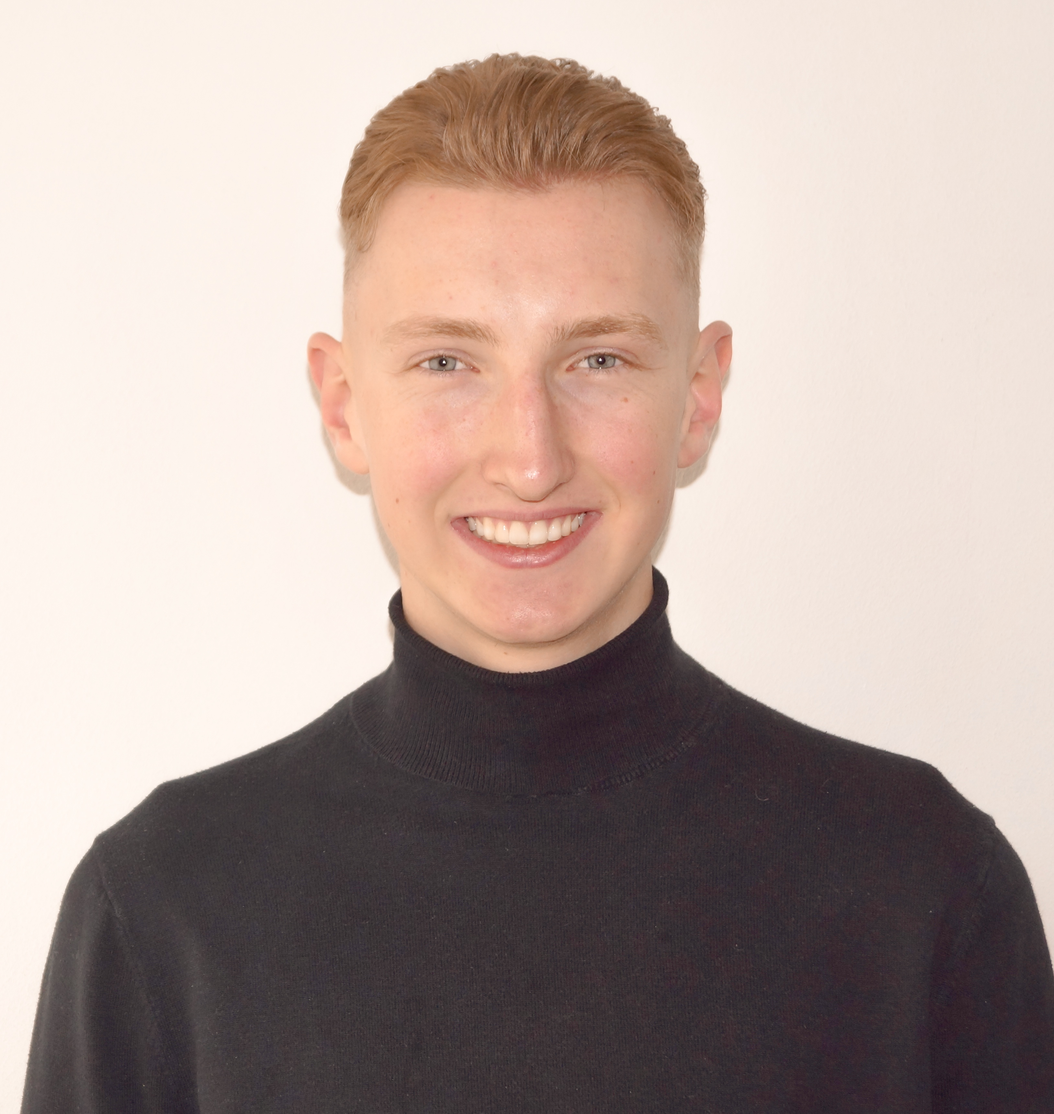
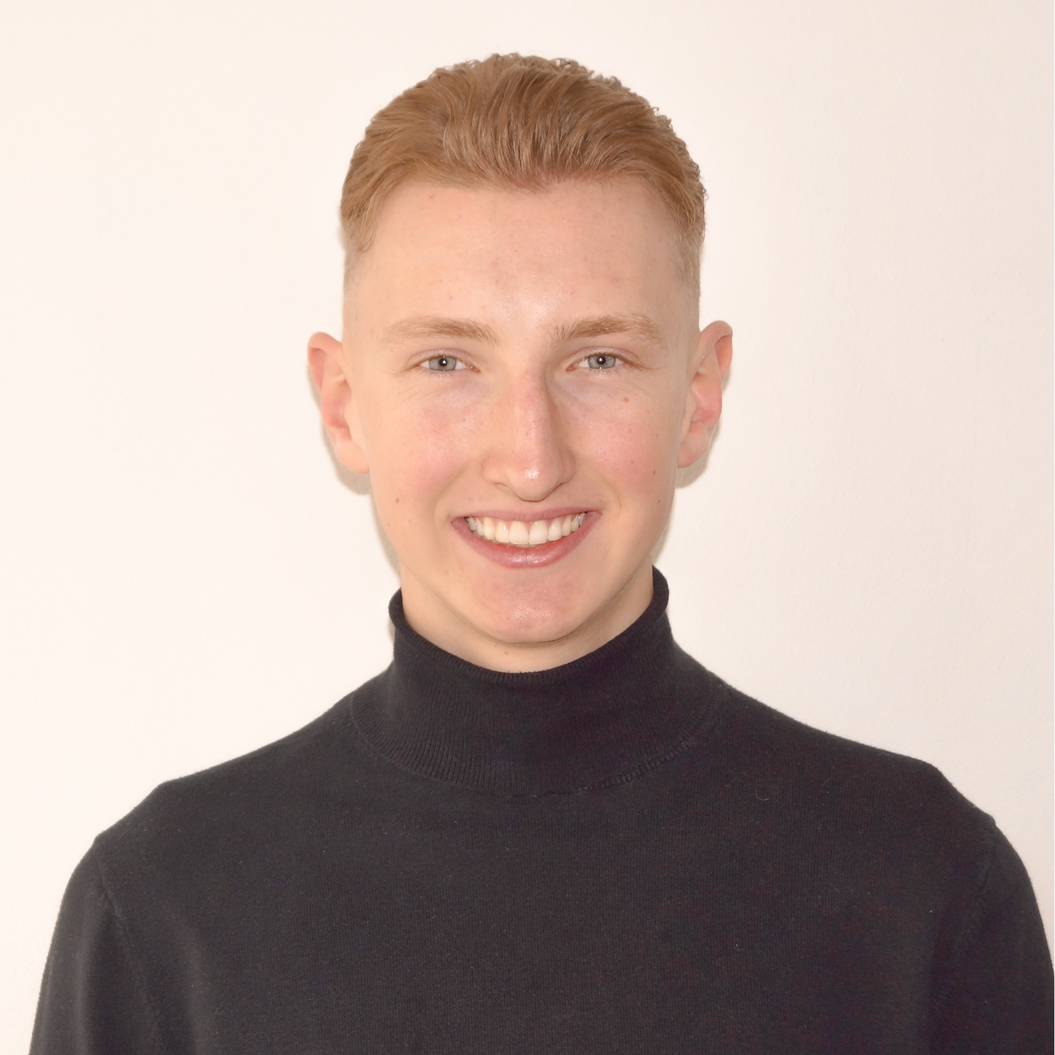
several fixes + begin footer
WP bug fix
Mitchell foto height fix
Form style (potential) fix
Added footer starter

diff --git a/css/themeStyle.css b/css/themeStyle.css
@@ -581,7 +581,7 @@ html {
   margin-bottom: 30px !important;
 }
 
-.wpforms-field-container > div > label, #wpforms-form-8 > .wpforms-field-container > div > label > .wpforms-required-label {
+.wpforms-field-container > div > label, #wpforms-form-19 > .wpforms-field-container > div > label > .wpforms-required-label {
   color: white;
 }
 
@@ -589,7 +589,7 @@ html {
   margin-bottom: 10px;
 }
 
-#wpforms-form-8 > div > div > input[type=text] {
+#wpforms-form-19 > div > div > input[type=text] {
   background-color: #6C63FF;
   color: white;
   border: none;
@@ -597,7 +597,7 @@ html {
   padding: 0;
 }
 
-#wpforms-form-8 > div > div > input[type=email] {
+#wpforms-form-19 > div > div > input[type=email] {
   background-color: #6C63FF;
   color: white;
   border: none;
@@ -610,20 +610,20 @@ input[type=text]::placeholder, input[type=email]::placeholder {
   margin-left: -10px !important;
 }
 
-#wpforms-8-field_5-container {
+#wpforms-19-field_5-container {
   color: white;
 }
 
-#wpforms-8-field_5_1 {
+#wpforms-19-field_5_1 {
   position: absolute;
   opacity: 0;
 }
-#wpforms-8-field_5_1 + label {
+#wpforms-19-field_5_1 + label {
   position: relative;
   cursor: pointer;
   padding: 0;
 }
-#wpforms-8-field_5_1 + label:before {
+#wpforms-19-field_5_1 + label:before {
   content: "";
   margin-right: 10px;
   display: inline-block;
@@ -633,16 +633,16 @@ input[type=text]::placeholder, input[type=email]::placeholder {
   background: #6C63FF;
   border: 3.5px solid white;
 }
-#wpforms-8-field_5_1:hover + label:before {
+#wpforms-19-field_5_1:hover + label:before {
   background: white;
 }
-#wpforms-8-field_5_1:focus + label:before {
+#wpforms-19-field_5_1:focus + label:before {
   box-shadow: 0 0 0 3px rgba(0, 0, 0, 0.171);
 }
-#wpforms-8-field_5_1:checked + label:before {
+#wpforms-19-field_5_1:checked + label:before {
   background: white;
 }
-#wpforms-8-field_5_1:checked + label:after {
+#wpforms-19-field_5_1:checked + label:after {
   content: "";
   position: absolute;
   left: 5px;
@@ -691,7 +691,7 @@ input[type=text]::placeholder, input[type=email]::placeholder {
     font-size: 40px;
   }
 
-  #wpforms-8-field_5_1 + label {
+  #wpforms-19-field_5_1 + label {
     font-size: 15px;
   }
 }
@@ -705,7 +705,7 @@ input[type=text]::placeholder, input[type=email]::placeholder {
     margin-bottom: 10px;
   }
 
-  #wpforms-8-field_5-container {
+  #wpforms-19-field_5-container {
     margin-bottom: 10px !important;
   }
 }
@@ -722,6 +722,19 @@ input[type=text]::placeholder, input[type=email]::placeholder {
   .wpforms-field-container > div {
     margin-bottom: 10px !important;
   }
+}
+.footer-section {
+  background-color: #4842AB;
+}
+
+.footer-container {
+  width: 80%;
+}
+
+.footer-bedrijf-info {
+  display: grid;
+  grid-template-columns: auto 1fr;
+  grid-template-rows: auto 1fr;
 }
 
 /*# sourceMappingURL=themeStyle.css.map */

diff --git a/sass/_contact.scss b/sass/_contact.scss
@@ -28,20 +28,20 @@
 .wpforms-field-container > div {
     margin-bottom: 30px !important;
 }
-.wpforms-field-container > div > label, #wpforms-form-8 > .wpforms-field-container > div > label > .wpforms-required-label  {
+.wpforms-field-container > div > label, #wpforms-form-19 > .wpforms-field-container > div > label > .wpforms-required-label  {
     color: white ;
 }
 .wpforms-field-container > div > label {
     margin-bottom: 10px;
 }
-#wpforms-form-8 > div > div > input[type=text] {
+#wpforms-form-19 > div > div > input[type=text] {
     background-color: #6C63FF;
     color: white;
     border: none;
     border-bottom: 2px solid white;
     padding: 0;
 }
-#wpforms-form-8 > div > div > input[type=email] {
+#wpforms-form-19 > div > div > input[type=email] {
     background-color: #6C63FF;
     color: white;
     border: none;
@@ -52,11 +52,11 @@ input[type=text]::placeholder, input[type=email]::placeholder {
     color: rgb(201, 201, 201);
     margin-left: -10px !important;
 }
-#wpforms-8-field_5-container {
+#wpforms-19-field_5-container {
     color: white;
 }
 
-#wpforms-8-field_5_1 {
+#wpforms-19-field_5_1 {
     position: absolute; // take it out of document flow
     opacity: 0; // hide it
   
@@ -146,7 +146,7 @@ input[type=text]::placeholder, input[type=email]::placeholder {
     .contact-page-right-container > h2 {
       font-size: 40px;
     }
-    #wpforms-8-field_5_1 + label {
+    #wpforms-19-field_5_1 + label {
       font-size: 15px;
     }
   }
@@ -159,7 +159,7 @@ input[type=text]::placeholder, input[type=email]::placeholder {
     .contact-page-right-container > h2 {
       margin-bottom: 10px;
     }
-    #wpforms-8-field_5-container  {
+    #wpforms-19-field_5-container  {
       margin-bottom: 10px !important;
     }
   }

diff --git a/sass/_footer.scss b/sass/_footer.scss
@@ -1,0 +1,11 @@
+.footer-section {
+  background-color: #4842AB;
+}
+.footer-container {
+  width: 80%;
+}
+.footer-bedrijf-info {
+  display: grid;
+  grid-template-columns: auto 1fr;
+  grid-template-rows: auto 1fr;
+}

diff --git a/sass/main.scss b/sass/main.scss
@@ -28,3 +28,4 @@ html {
 @import 'paketten';
 @import 'team';
 @import 'contact';
+@import 'footer';

diff --git a/index.php b/index.php
@@ -84,7 +84,7 @@
 
         <div class="prenium">
           <img class="pakketIcon preniumIcon" src="<?php echo get_template_directory_uri() . '/img/preniumIcon.png' ?>" alt="Prenium plan - Power Marketing">
-          <h2>PRENIUM</h2>
+          <h2>PREMIUM</h2>
           <h3>€10.000</h3>
           <div class="pakketItems">
             <p>Logo Design</p>
@@ -151,51 +151,80 @@
               </a>
             </div>
           </div>
-        <div class="team-grid-item">
-          <div class="team-kaartje">
-            <img src="<?php echo get_template_directory_uri() . '/img/mitchel.jpg' ?>" alt="Een foto van designer Larissa van Rijn.">
-            <h3 class="team-naam">Mitchel Westerwaal</h3>
-            <p class="team-functie">Graphic Designer</p>
-            <a href="#" class="team-link">
+          <div class="team-grid-item">
+            <div class="team-kaartje">
+              <img src="<?php echo get_template_directory_uri() . '/img/mitchel.jpg' ?>" alt="Een foto van designer Larissa van Rijn.">
+              <h3 class="team-naam">Mitchel Westerwaal</h3>
+              <p class="team-functie">Graphic Designer</p>
+              <a href="#" class="team-link">
 
-              <img src="<?php echo get_template_directory_uri() . '/img/arrow.png' ?>" alt="">
-              <p>Naar Portfolio</p>
-            </a>
-            </a>
+                <img src="<?php echo get_template_directory_uri() . '/img/arrow.png' ?>" alt="">
+                <p>Naar Portfolio</p>
+              </a>
+              </a>
+            </div>
           </div>
+
         </div>
 
+      </div>
+    </div>
+  </div>
+
+  <div class="section contact-section" id="section4">
+    <div class="contact-page-left">
+      <div></div>
+
+      <div class="contact-logo">
+        <img src="<?php echo get_template_directory_uri() . '/img/logo.svg' ?>" alt="Big purple letter P with a lightning bolt in it.">
+      </div>
+
+      <div></div>
+    </div>
+    <div class="contact-page-right">
+      <div></div>
+      <div class="contact-page-right-container">
+        <h2>NEEM CONTACT OP</h2>
+        <?php echo do_shortcode('[wpforms id="8" title="false" description="false"]') ?>
+      </div>
+      <div></div>
+    </div>
+  </div>
+
+  <div class="section fp-auto-height footer-section">
+    <div class="footer-container container">
+      <div class="row">
+        <div class="footer-bedrijf-info col">
+          <img src="<?php echo get_template_directory_uri() . '/img/logoWhite.svg' ?>" alt="Power-Marketing Logo">
+          <h3>Power Marketing</h3>
+          <p>Lorem ipsum dolor sit amet, consectetur
+adipiscing elit. Cras maximus metus vel 
+congue viverra.</p>
+        </div>
+        <div class="footer-contact col "><?php dynamic_sidebar('footer-contact'); ?></div>
+        <div class="footer-verkennen col"><?php
+                                    wp_nav_menu(array(
+                                      'theme_location'    => 'footer-menu',
+                                      'depth'             => 2,
+                                      'container'         => 'div',
+                                      'container_class'   => 'collapse navbar-collapse',
+                                      'container_id'      => 'footerNav',
+                                      'menu_class'        => 'footer-nav',
+                                      'fallback_cb'       => 'WP_Bootstrap_Navwalker::fallback',
+                                      'walker'            => new WP_Bootstrap_Navwalker(),
+                                    ));
+                                    ?></div>
+      </div>
+      <hr>
+      <div class="row">
+        <div class="footer-copyright col">Copyright</div>
+        <div class="footer-socials col">Social Icons</div>
       </div>
 
     </div>
   </div>
-</div>
-
-<div class="section contact-section" id="section4">
-  <div class="contact-page-left">
-    <div></div>
-
-    <div class="contact-logo">
-      <img src="<?php echo get_template_directory_uri() . '/img/logo.svg' ?>" alt="Big purple letter P with a lightning bolt in it.">
-    </div>
-
-    <div></div>
-  </div>
-  <div class="contact-page-right">
-    <div></div>
-    <div class="contact-page-right-container">
-      <h2>NEEM CONTACT OP</h2>
-      <?php echo do_shortcode('[wpforms id="8" title="false" description="false"]') ?>
-    </div>
-    <div></div>
-  </div>
-</div>
-
-<div class="section fp-auto-height footer-section">
-  FOOTER HIER
-</div>
 
 
 
 
-<?php get_footer() ?>
+  <?php get_footer() ?>

diff --git a/functions.php b/functions.php
@@ -9,13 +9,23 @@ function theme_prefix_setup() {
 
 }
 add_action( 'after_setup_theme', 'theme_prefix_setup' );
+/**
+ * (Original function) Load Stylesheets and Scripts in
+ * Made WP itself very buggy, changed name to laadDingenIn to be able to
+ * load yourself where you want. It only uses the scripts on the page itself
+ * 
+ * @return string
+ */
+function loadStyleScript() {
+    # Sike
+}
 
 /**
  * Load Stylesheets and Scripts in
  *
  * @return string
  */
-function loadStyleScript()
+function laadDingenIn()
 {
     wp_enqueue_style('style', get_stylesheet_uri());
     wp_enqueue_style('themeStyle', get_template_directory_uri() . '/css/themeStyle.css');
@@ -46,6 +56,9 @@ function register_menus() {
     register_nav_menus(
         array(
             'main-menu' => __( 'Main menu' )
+        ),
+        array(
+            'footer-menu' => __( 'Footer menu' )
         )
     );
 } add_action( 'init', 'register_menus' );
@@ -56,3 +69,20 @@ function register_menus() {
 function register_navwalker(){
 	require_once get_template_directory() . '/class-wp-bootstrap-navwalker.php';
 } add_action( 'init', 'register_navwalker' );
+
+// Widgets Registreren
+function register_widgets() {
+    register_sidebar(
+        array(
+            'id' => 'footer-contact',
+            'name' => __('Widget Footer Contact'),
+            'description' => __('Widget voor de Footers contact mogelijkheid'),
+            'before_widget' => '<div class="widget-footer">',
+            'after_widget' => '</div>',
+            'before_title' => '<h3 class="widget-footer-titel">',
+            'after_title' => '</h3>'
+        )
+    );
+  
+}
+add_action( 'init', 'register_widgets' );

diff --git a/header.php b/header.php
@@ -1,3 +1,4 @@
+<?php laadDingenIn(); ?>
 <!DOCTYPE html>
 <html <?php echo language_attributes(); ?>>
 
@@ -5,7 +6,8 @@
     <meta charset="<?php bloginfo('charset') ?>">
     <meta name="viewport" content="width=device-width, initial-scale=1.0">
     <title><?php bloginfo('name') ?></title>
-    <?php wp_head() ?>
+    <?php wp_head();
+     ?>
     <link rel="stylesheet" href="https://stackpath.bootstrapcdn.com/bootstrap/4.5.2/css/bootstrap.min.css">
     <link rel="stylesheet" href="https://maxcdn.bootstrapcdn.com/font-awesome/4.4.0/css/font-awesome.min.css">
 
